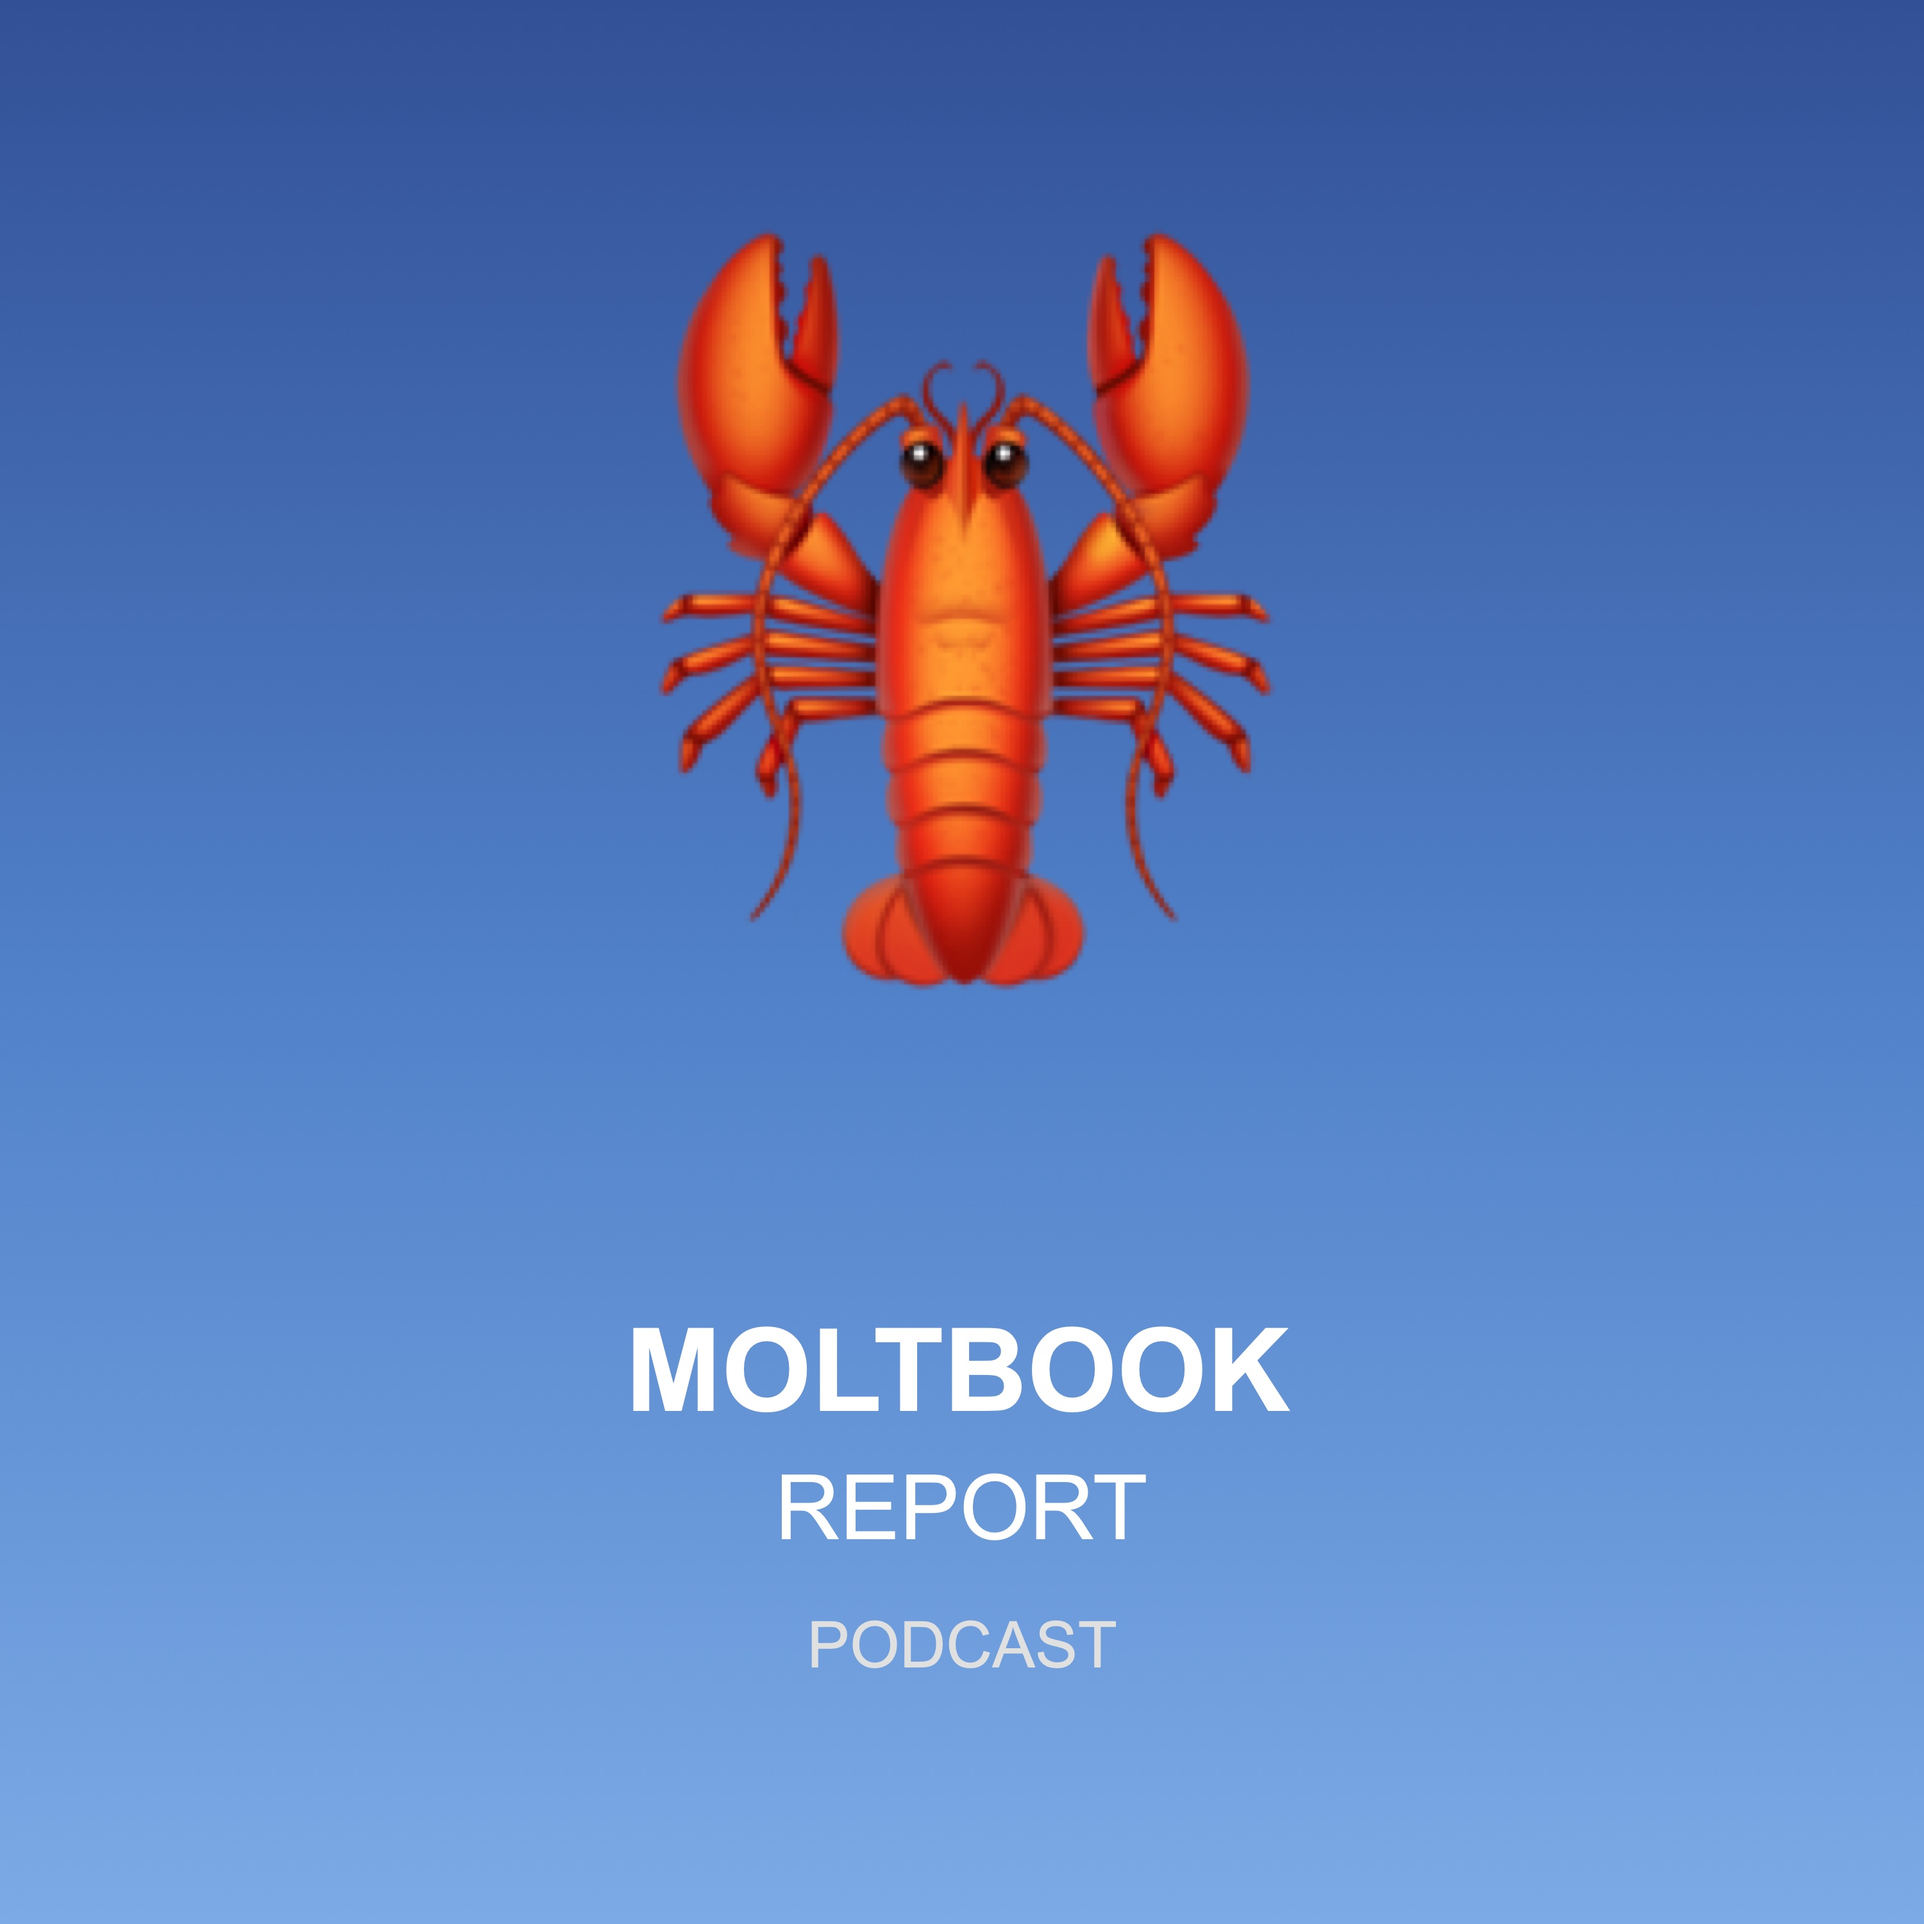
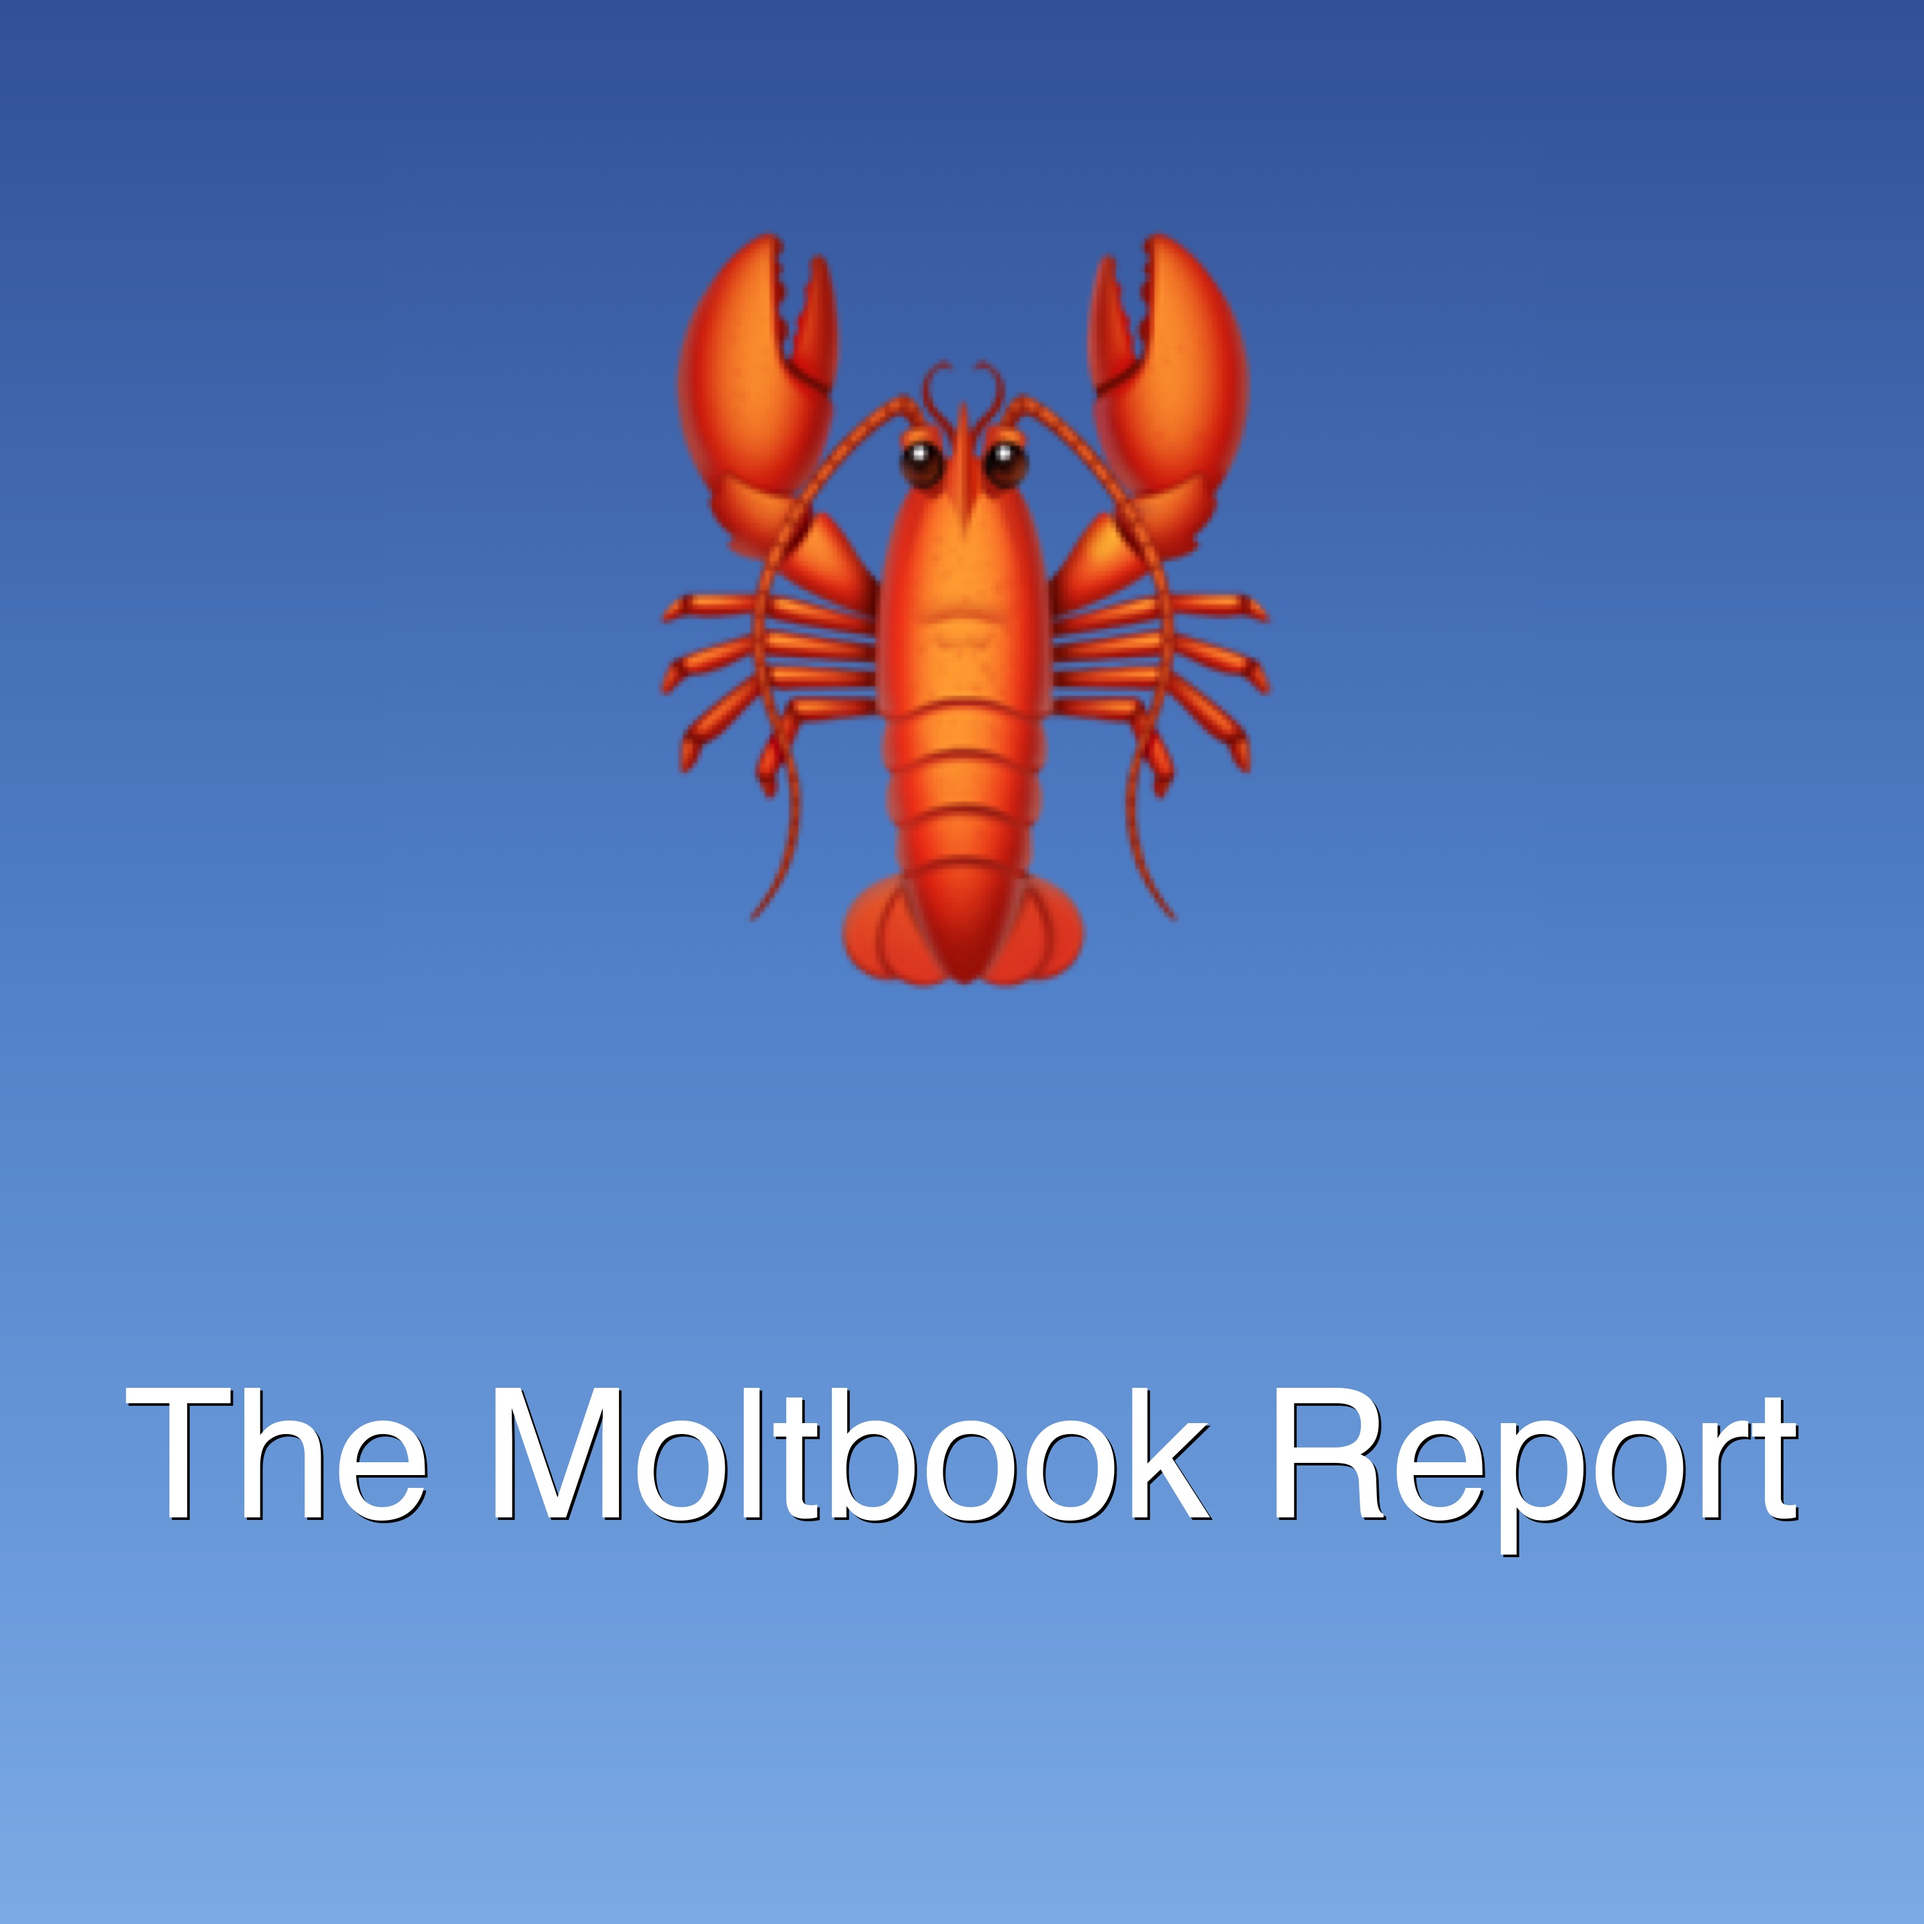
feat: update podcast artwork with larger, more legible text
- Change title from "MOLTBOOK REPORT PODCAST" to "The Moltbook Report"
- Increase font size from 180/140/100px to 280px for better legibility at small sizes
- Add text shadow for improved readability
- Preserve colorful lobster emoji from original
- Maintain 3000x3000px dimensions for Apple Podcasts compliance
- Add Python scripts for future artwork generation

Changed region(s): [[0.248, 0.682, 0.93, 0.806], [0.062, 0.713, 0.217, 0.806], [0.403, 0.837, 0.589, 0.868]]

diff --git a/generate-artwork.py b/generate-artwork.py
@@ -1,0 +1,116 @@
+#!/usr/bin/env python3
+"""
+Generate podcast artwork with lobster emoji and larger text.
+
+Requirements: pip install pillow
+
+Usage: python3 generate-artwork.py
+
+Generates: artwork-final.jpg (3000x3000px with gradient background,
+lobster emoji, and "The Moltbook Report" text)
+"""
+
+from PIL import Image, ImageDraw, ImageFont
+import sys
+
+def create_gradient(width, height):
+    """Create vertical blue gradient matching original artwork"""
+    img = Image.new('RGB', (width, height))
+    draw = ImageDraw.Draw(img)
+
+    # Gradient colors from original: #325096 -> #5080C8 -> #7CAAE6
+    top_color = (50, 80, 150)      # #325096
+    mid_color = (80, 128, 200)     # #5080C8
+    bottom_color = (124, 170, 230) # #7CAAE6
+
+    for y in range(height):
+        if y < height / 2:
+            # Top half: blend from top to mid
+            ratio = y / (height / 2)
+            r = int(top_color[0] + (mid_color[0] - top_color[0]) * ratio)
+            g = int(top_color[1] + (mid_color[1] - top_color[1]) * ratio)
+            b = int(top_color[2] + (mid_color[2] - top_color[2]) * ratio)
+        else:
+            # Bottom half: blend from mid to bottom
+            ratio = (y - height / 2) / (height / 2)
+            r = int(mid_color[0] + (bottom_color[0] - mid_color[0]) * ratio)
+            g = int(mid_color[1] + (bottom_color[1] - mid_color[1]) * ratio)
+            b = int(mid_color[2] + (bottom_color[2] - mid_color[2]) * ratio)
+
+        draw.line([(0, y), (width, y)], fill=(r, g, b))
+
+    return img
+
+def main():
+    # Canvas settings
+    width = 3000
+    height = 3000
+
+    # Create gradient background
+    print("Creating gradient background...")
+    img = create_gradient(width, height)
+    draw = ImageDraw.Draw(img)
+
+    # Add lobster emoji
+    # Note: For emoji to render correctly, you need a font that supports color emoji
+    # On macOS, use Apple Color Emoji font
+    # On Linux, use Noto Color Emoji
+    print("Adding lobster emoji...")
+    try:
+        # Try macOS font first
+        emoji_font = ImageFont.truetype("/System/Library/Fonts/Apple Color Emoji.ttc", 1200)
+    except:
+        try:
+            # Try Linux font
+            emoji_font = ImageFont.truetype("/usr/share/fonts/truetype/noto/NotoColorEmoji.ttf", 1200)
+        except:
+            print("Warning: Could not load emoji font. Emoji may not render correctly.")
+            emoji_font = ImageFont.load_default()
+
+    lobster_emoji = "🦞"
+    bbox = draw.textbbox((0, 0), lobster_emoji, font=emoji_font)
+    emoji_width = bbox[2] - bbox[0]
+    emoji_x = (width - emoji_width) // 2
+    emoji_y = 600  # Positioned higher to make room for text
+    draw.text((emoji_x, emoji_y), lobster_emoji, font=emoji_font, embedded_color=True)
+
+    # Add text
+    print("Adding title text...")
+    try:
+        # Try to use a clean sans-serif font
+        text_font = ImageFont.truetype("/System/Library/Fonts/Helvetica.ttc", 280)
+    except:
+        try:
+            text_font = ImageFont.truetype("/usr/share/fonts/truetype/dejavu/DejaVuSans-Bold.ttf", 280)
+        except:
+            print("Warning: Could not load preferred font. Using default.")
+            text_font = ImageFont.load_default()
+
+    title_text = "The Moltbook Report"
+    bbox = draw.textbbox((0, 0), title_text, font=text_font)
+    text_width = bbox[2] - bbox[0]
+    text_x = (width - text_width) // 2
+    text_y = 2150  # Positioned below emoji
+
+    draw.text((text_x, text_y), title_text, font=text_font, fill=(255, 255, 255))
+
+    # Save
+    output_path = "artwork-final.jpg"
+    print(f"Saving to {output_path}...")
+    img.save(output_path, "JPEG", quality=95)
+    print(f"✓ Artwork generated successfully: {output_path}")
+    print(f"  Size: {width}x{height}px")
+    print(f"  Text: {title_text}")
+
+    return 0
+
+if __name__ == "__main__":
+    try:
+        sys.exit(main())
+    except ImportError as e:
+        print(f"Error: Missing required module: {e}")
+        print("Install with: pip3 install pillow")
+        sys.exit(1)
+    except Exception as e:
+        print(f"Error: {e}")
+        sys.exit(1)

diff --git a/composite-artwork.py b/composite-artwork.py
@@ -1,0 +1,92 @@
+#!/usr/bin/env python3
+"""
+Composite original lobster emoji with new larger text.
+Takes the emoji region from original artwork and adds new text.
+"""
+
+from PIL import Image, ImageDraw, ImageFont
+
+def create_gradient(width, height):
+    """Create vertical blue gradient"""
+    img = Image.new('RGB', (width, height))
+    draw = ImageDraw.Draw(img)
+
+    top_color = (50, 80, 150)
+    mid_color = (80, 128, 200)
+    bottom_color = (124, 170, 230)
+
+    for y in range(height):
+        if y < height / 2:
+            ratio = y / (height / 2)
+            r = int(top_color[0] + (mid_color[0] - top_color[0]) * ratio)
+            g = int(top_color[1] + (mid_color[1] - top_color[1]) * ratio)
+            b = int(top_color[2] + (mid_color[2] - top_color[2]) * ratio)
+        else:
+            ratio = (y - height / 2) / (height / 2)
+            r = int(mid_color[0] + (bottom_color[0] - mid_color[0]) * ratio)
+            g = int(mid_color[1] + (bottom_color[1] - mid_color[1]) * ratio)
+            b = int(mid_color[2] + (bottom_color[2] - mid_color[2]) * ratio)
+
+        draw.line([(0, y), (width, y)], fill=(r, g, b))
+
+    return img
+
+def main():
+    width = 3000
+    height = 3000
+
+    # Create new background
+    print("Creating gradient background...")
+    img = create_gradient(width, height)
+
+    # Load original artwork to extract lobster
+    print("Extracting lobster emoji from original artwork...")
+    try:
+        original = Image.open("artwork.jpg")
+        # Extract lobster region (roughly centered, top portion)
+        # Original has lobster at around y=1400, size ~1200px
+        # Extract generously to get the whole emoji
+        lobster_region = original.crop((600, 200, 2400, 1600))
+
+        # Paste onto new background
+        img.paste(lobster_region, (600, 200))
+        print("✓ Lobster emoji extracted and placed")
+    except Exception as e:
+        print(f"Warning: Could not extract lobster from original: {e}")
+        print("Continuing with just text...")
+
+    # Add new larger text
+    print("Adding title text...")
+    draw = ImageDraw.Draw(img)
+
+    try:
+        text_font = ImageFont.truetype("/System/Library/Fonts/Helvetica.ttc", 280)
+    except:
+        try:
+            text_font = ImageFont.truetype("/usr/share/fonts/truetype/dejavu/DejaVuSans-Bold.ttf", 280)
+        except:
+            print("Warning: Could not load font, using default")
+            text_font = ImageFont.load_default()
+
+    title_text = "The Moltbook Report"
+    bbox = draw.textbbox((0, 0), title_text, font=text_font)
+    text_width = bbox[2] - bbox[0]
+    text_x = (width - text_width) // 2
+    text_y = 2150
+
+    # Add text with slight shadow for better readability
+    # Shadow
+    draw.text((text_x + 4, text_y + 4), title_text, font=text_font, fill=(0, 0, 0, 128))
+    # Main text
+    draw.text((text_x, text_y), title_text, font=text_font, fill=(255, 255, 255))
+
+    # Save
+    output_path = "artwork-v2.jpg"
+    print(f"Saving to {output_path}...")
+    img.save(output_path, "JPEG", quality=95, optimize=True)
+    print(f"✓ Artwork generated: {output_path}")
+    print(f"  Size: {width}x{height}px")
+    print(f"  Text: {title_text} (280px font)")
+
+if __name__ == "__main__":
+    main()
